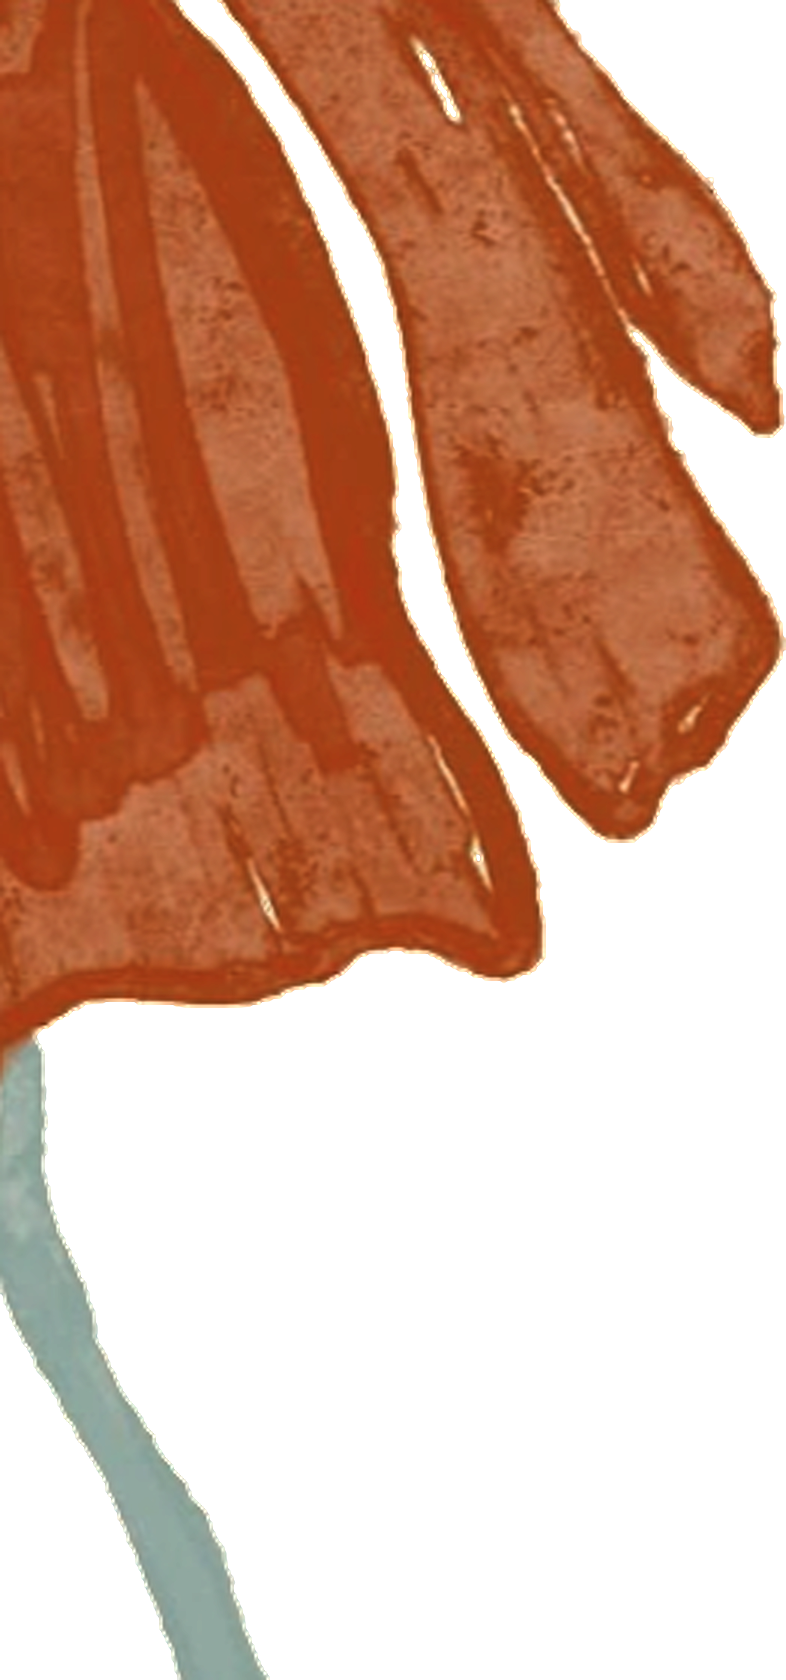
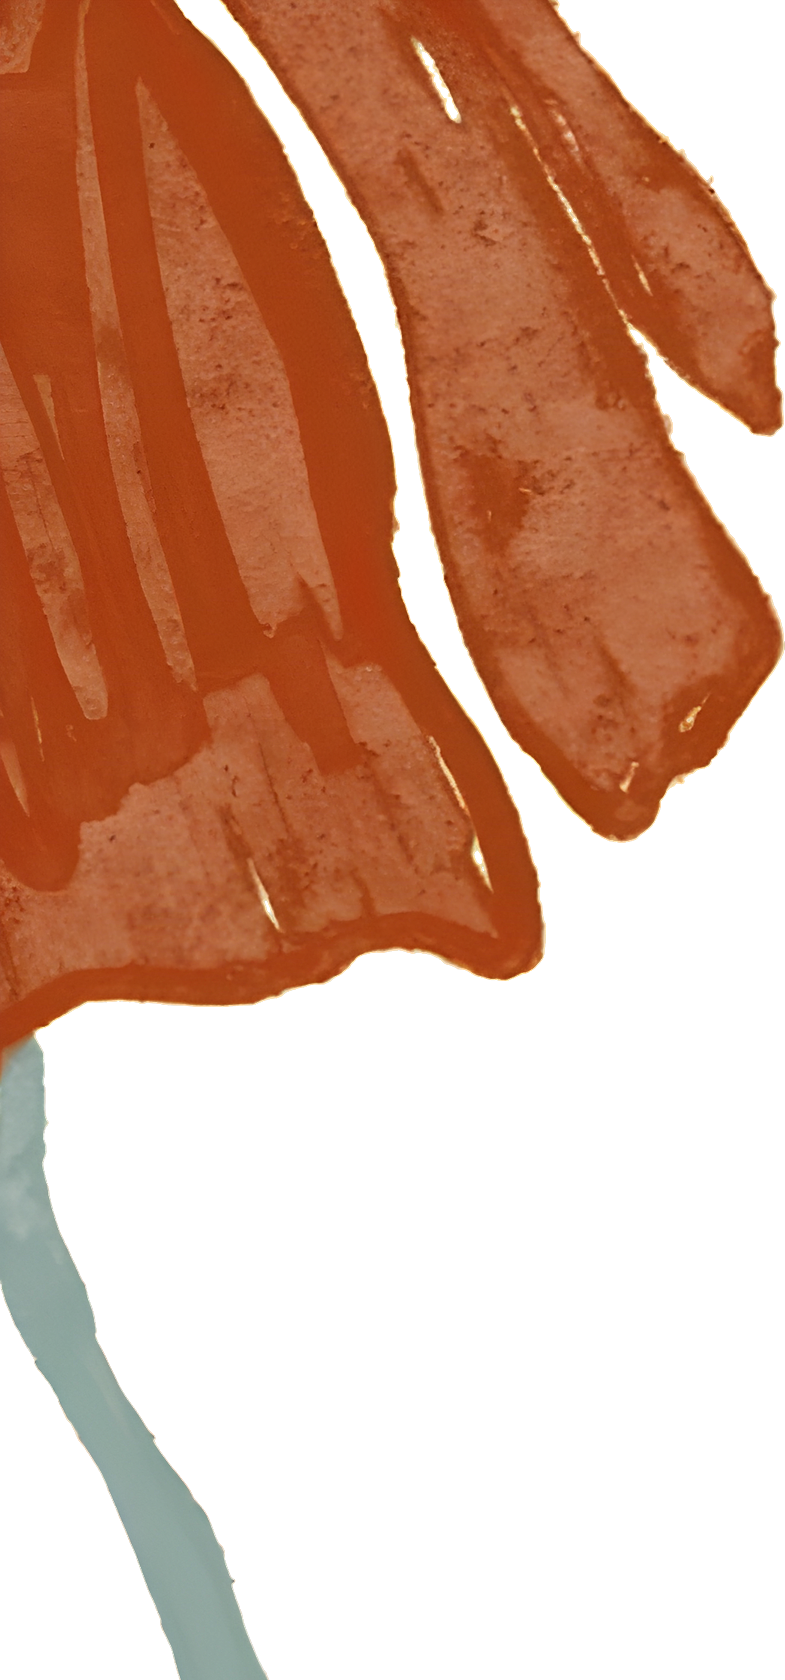
Blooms lifted from a 4x super-resolved sheet - real detail at retina
The hero blooms were cut from the 486px reference and upscaled 3x, so a
retina screen showed ~0.67x true detail - the softness she flagged. The
reference is now run through Real-ESRGAN x4plus (official weights, same
artwork, nothing redrawn) into hero-src/color-palette-4x.png, and
lift-flowers.js cuts from that at 4x then DOWNSCALES 0.75x to the same
published size, so every output pixel is earned:

- coordinates stay in original reference pixels, scaled by SRCS at use
- Lanczos taps widen by 1/k when downscaling (fixed footprint would moire)
- unsharp 0.9->0.5, EDGE_GAIN 2.6->1.35: finish, not rescue, now that the
  detail is real
- paper re-sampled from the SR sheet (drifted to 249,236,213)

Published dims shift 1-4px from re-trim (785x1680, 791x1175; build.js
attrs synced). Weight: +441KB across both blooms - real texture deflates
worse; accepted for the hero art.

diff --git a/tools/lift-flowers.js b/tools/lift-flowers.js
@@ -34,18 +34,30 @@ const fs = require('fs');
 const path = require('path');
 const { decode, encode } = require('./png.js');
 
-const SRC = path.join(__dirname, '..', '..', 'color pallete I like.png');
+/* The lift now reads a 4x super-resolved copy of the reference, not the reference
+   itself. hero-src/color-palette-4x.png is the SAME artwork — Real-ESRGAN x4plus run
+   over `color pallete I like.png` (486x886 → 1944x3544), which recovers a crisp brush
+   edge and the paint speckle instead of inventing them at display time. The shapes are
+   untouched: this is her literal paint, only resolved. All hand-tuned coordinates below
+   (ERASE, CUTS) stay in ORIGINAL source pixels and are scaled by SRCS at use, so they
+   never need retuning. Regenerate the sheet with Real-ESRGAN x4plus if the reference
+   ever changes (see the 2026-08-18 commit for the exact script). */
+const SRC = path.join(__dirname, '..', 'hero-src', 'color-palette-4x.png');
+const SRCS = 4; // source pixels per original-reference pixel
 const OUT = path.join(__dirname, '..', 'assets', 'hero');
 
-const PAPER = [245, 234, 211]; // sampled from the reference, not guessed
+const PAPER = [249, 236, 213]; // sampled from the SR sheet (drifted ~4 units from the raw scan's 245,234,211)
 const KEY_LO = 26;   // colour distance where the paper starts becoming ink
 const KEY_HI = 92;   // ...and where it is fully ink
 const MIN_AREA = 900; // drops the rule and the "EST'D 2024" line
-const SCALE = 3;
+/* Published size is unchanged (3x the ORIGINAL reference, ~786px wide) — but the path
+   there is now a 0.75x DOWNSCALE of real 4x detail instead of a 3x blow-up, so every
+   output pixel is earned. */
+const SCALE = 3 / SRCS;
 /* How far the coverage ramp is squeezed at the silhouette. 1 leaves the resampled edge
    alone; higher is a harder outline. 2.6 lands the edge at roughly the width it had in the
    source, i.e. still a brush edge and not a die cut. */
-const EDGE_GAIN = 2.6;
+const EDGE_GAIN = 1.35; // was 2.6 when the ramp had been stretched 3x; the downsampled ramp is already brush-width
 
 /* The set wordmark keys in exactly like the paint does, and "ORANGE & MELLOW" is at display
    size so its letters clear MIN_AREA on their own. Blanked by hand instead. */
@@ -101,7 +113,7 @@ function dropSpecks(img) {
         if (!seen[q] && data[q * 4 + 3] >= 90) { seen[q] = 1; stack[sp++] = q; }
       }
     }
-    if (n < MIN_AREA) {
+    if (n < MIN_AREA * SRCS * SRCS) {
       for (let i = 0; i < n; i++) data[blob[i] * 4 + 3] = 0;
       dropped++;
     }
@@ -136,8 +148,10 @@ const lanczos = x => (Math.abs(x) < 1e-8 ? 1 : Math.abs(x) >= LOBES ? 0 : sinc(x
 /** Precompute the taps for one axis: for each dest index, which source pixels and weights. */
 function taps(srcLen, dstLen) {
   const k = dstLen / srcLen;
-  // upscaling only, so the filter footprint stays LOBES source pixels wide
-  const support = LOBES;
+  /* downscaling (k<1) must widen the kernel to 1/k source pixels per lobe — a fixed
+     footprint would alias the paint speckle into moire; upscaling keeps it at LOBES */
+  const scale = Math.min(1, k);
+  const support = LOBES / scale;
   const rows = [];
   for (let d = 0; d < dstLen; d++) {
     const center = (d + 0.5) / k - 0.5;
@@ -145,7 +159,7 @@ function taps(srcLen, dstLen) {
     const idx = [], wt = [];
     let sum = 0;
     for (let s = lo; s <= hi; s++) {
-      const w = lanczos(s - center);
+      const w = lanczos((s - center) * scale);
       if (w === 0) continue;
       idx.push(clamp(s, 0, srcLen - 1)); wt.push(w); sum += w;
     }
@@ -217,8 +231,10 @@ function upscale(img, k) {
    rings — it overshoots past 1 inside the edge and below 0 outside it, which shows up as a
    pale outline hugging the flower. A smoothstep remap around the midpoint narrows the
    coverage ramp without ever leaving [0,1], so the silhouette hardens cleanly. */
-const SHARP_AMOUNT = 0.9;
-const SHARP_RADIUS = SCALE * 0.55;
+/* Down from 0.9/1.65: the detail is real now, so the unsharp mask is a finish, not a
+   rescue — 0.9 on top of true 4x texture crunched the speckle into grit. */
+const SHARP_AMOUNT = 0.5;
+const SHARP_RADIUS = 0.8;
 
 /** Separable Gaussian on a premultiplied float RGBA buffer; alpha is copied, not blurred. */
 function blurRGB(buf, w, h, radius) {
@@ -347,7 +363,7 @@ const src = decode(fs.readFileSync(SRC));
 console.log(`source ${path.basename(SRC)}  ${src.width}x${src.height}`);
 const keyed = keyPaper(src);
 for (const e of ERASE) {
-  for (let y = e.y0; y < e.y1; y++) for (let x = e.x0; x < e.x1; x++) keyed.data[(y * keyed.width + x) * 4 + 3] = 0;
+  for (let y = e.y0 * SRCS; y < e.y1 * SRCS; y++) for (let x = e.x0 * SRCS; x < e.x1 * SRCS; x++) keyed.data[(y * keyed.width + x) * 4 + 3] = 0;
 }
 console.log(`keyed the paper out; blanked ${ERASE.length} wordmark rect, dropped ${dropSpecks(keyed)} specks`);
 
@@ -357,7 +373,7 @@ if (process.argv.includes('--debug')) {
 }
 
 for (const c of CUTS) {
-  const cut = crop(keyed, c.x0, c.y0, c.x1, c.y1);
+  const cut = crop(keyed, c.x0 * SRCS, c.y0 * SRCS, c.x1 * SRCS, c.y1 * SRCS);
   const { kept, dropped, areas } = dropOrphans(cut);
   const piece = trim(cut);
   const big = slim(resolve(upscale(piece, SCALE)));

diff --git a/build.js b/build.js
@@ -458,7 +458,7 @@ section{padding:calc(var(--space)*14) calc(var(--space)*6);max-width:1240px;marg
 
    Roughly half of each bloom hangs off its edge, which is what keeps them reading as art
    running off the page rather than as two pictures placed in two corners. */
-/* The WIDTHS are capped at what the artwork can actually pay for. bloom-left.png is 786px
+/* The WIDTHS are capped at what the artwork can actually pay for. bloom-left.png is 785px
    wide, so on a 2x screen it can fill 393 CSS px before the browser starts inventing
    detail — and inventing detail is precisely the softness she is objecting to. 27vw lands
    on 389px at 1440. There is no more resolution to be had: the source sheet is 486px wide
@@ -1377,8 +1377,8 @@ function renderHome() {
          only look right because they are the actual paint.
          ?v= for the same reason the handwriting mask carries it: the art is regenerated in
          place, so without a version a returning visitor keeps being served the old bloom. -->
-    <img class="flora-a" src="assets/hero/bloom-left.png?v=${BUILD_V}" alt="" width="786" height="1680" loading="eager" decoding="async" fetchpriority="high">
-    <img class="flora-b" src="assets/hero/bloom-right.png?v=${BUILD_V}" alt="" width="792" height="1179" loading="eager" decoding="async" fetchpriority="high">
+    <img class="flora-a" src="assets/hero/bloom-left.png?v=${BUILD_V}" alt="" width="785" height="1680" loading="eager" decoding="async" fetchpriority="high">
+    <img class="flora-b" src="assets/hero/bloom-right.png?v=${BUILD_V}" alt="" width="791" height="1175" loading="eager" decoding="async" fetchpriority="high">
   </div>
   <p class="eyebrow reveal-words" data-seq="0">${esc(h.eyebrow)}</p>
   <h1><span class="lively">${esc(h.headline)}</span></h1>
